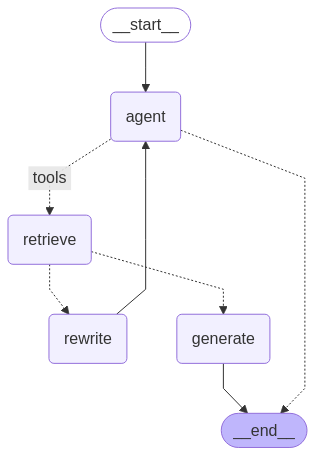
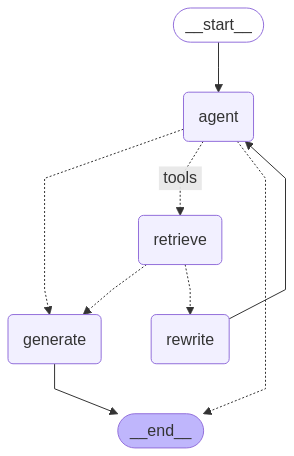
updated graph and associated methods to use retrievel tool more reliably

diff --git a/app/core/agents/agentic_graph.py b/app/core/agents/agentic_graph.py
@@ -2,29 +2,47 @@ import json
 from typing import Literal
 
 from langchain import hub
-from langchain_core.messages import HumanMessage
+from langchain_core.messages import HumanMessage, ToolMessage
 from langchain_core.output_parsers import StrOutputParser
 from langchain_core.prompts import PromptTemplate
 from langgraph.graph import END, START, StateGraph
-from langgraph.prebuilt import ToolNode, tools_condition
+from langgraph.prebuilt import tools_condition
 
 from app.clients.azure_openai_config import azure_gpt4o
 from app.core.agents.agent_state import AgentState
-from app.core.agents.agent_tools import retriever_tool, tools
+from app.core.agents.agent_tools import tools
+from app.core.rag.vector_store import retriever
 
 
-### Edges
+def debug_tools_condition(state):
+    user_query = state["messages"][0].content.lower()
+    gov_keywords = [
+        "universal credit",
+        "benefits",
+        "housing",
+        "landlord",
+        "rented",
+        "government",
+        "ai ethics",
+        "artificial intelligence",
+        "government guidance",
+        "fairness",
+        "accountability",
+        "transparency",
+    ]
+    result = tools_condition(state)
+    print(f"TOOL CONDITION OUTPUT FROM LLM: {result}")
+    if any(keyword in user_query for keyword in gov_keywords):
+        print(
+            "\U0001f50d Detected gov-related keyword and no retrieval yet — forcing retriever tool."
+        )
+        return "tools"
+    return result
+
+
 def check_document_relevance(state) -> Literal["generate", "rewrite"]:
-    """
-    Determines whether the retrieved documents are relevant to the question.
-    """
     print("---CHECK RELEVANCE---")
-
-    model = azure_gpt4o(
-        temperature=0, streaming=False
-    )  # Disable streaming for simpler invoke/parse
-
-    # Modify prompt to explicitly ask for JSON output
+    model = azure_gpt4o(temperature=0, streaming=False)
     prompt = PromptTemplate(
         template="""You are a grader assessing relevance of a retrieved document to a user question.
         Here is the retrieved document:
@@ -34,92 +52,102 @@ def check_document_relevance(state) -> Literal["generate", "rewrite"]:
         {question}
 
         If the document contains keyword(s) or semantic meaning related to the user question, grade it as relevant.
-        Give a binary score 'yes' or 'no' score to indicate whether the document is relevant to the question.
-        Respond ONLY with a valid JSON object containing a single key "binary_score" with the value "yes" or "no".
-        Example: {{"binary_score": "yes"}}
+        Respond ONLY with 'yes' or 'no'.
 
-        JSON Response:""",
+        Response:""",
         input_variables=["context", "question"],
     )
-
-    # Simpler chain for raw output
     chain = prompt | model | StrOutputParser()
 
     messages = state["messages"]
     last_message = messages[-1]
     question = messages[0].content
-    docs = (
-        last_message.content
-    )  # Assuming docs is already a string or formatted correctly here
+    docs = last_message.content
 
-    # Invoke the chain to get the raw string output
-    raw_json_output = chain.invoke({"question": question, "context": docs})
-    print(f"DEBUG: Raw output from grading model: {raw_json_output}")
+    raw_output = chain.invoke({"question": question, "context": docs})
+    print(f"DEBUG: Raw output from grading model: {raw_output}")
 
-    score = "no"  # Default score
-    try:
-        # Attempt to parse the JSON string
-        parsed_output = json.loads(raw_json_output.strip())
-        if "binary_score" in parsed_output and parsed_output["binary_score"] in [
-            "yes",
-            "no",
-        ]:
-            score = parsed_output["binary_score"]
-        else:
-            print("WARN: JSON output missing 'binary_score' or invalid value.")
-    except json.JSONDecodeError:
-        print(f"ERROR: Failed to decode JSON from model output: {raw_json_output}")
-    except Exception as e:
-        print(f"ERROR: Unexpected error parsing JSON: {e}")
+    cleaned_output = raw_output.strip().lower()
+    print(f"*********Cleaned String to parse: {cleaned_output}")
 
-    if score == "yes":
+    if "yes" in cleaned_output:
         print("---DECISION: DOCS RELEVANT---")
         return "generate"
 
-    print(f"---DECISION: DOCS NOT RELEVANT (Score: {score})---")
+    print(f"---DECISION: DOCS NOT RELEVANT (Score: {cleaned_output})---")
     return "rewrite"
 
 
-### Nodes
 def agent(state):
-    """
-    Invokes the agent model to generate a response based on the current state. Given
-    the question, it will decide to retrieve using the retriever tool, or simply end.
-
-    Args:
-        state (messages): The current state
-
-    Returns:
-        dict: The updated state with the agent response appended to messages
-    """
     print("---CALL AGENT---")
     messages = state["messages"]
+    system_msg = HumanMessage(
+        content=(
+            "You are a helpful assistant. Use tools when relevant. "
+            "You MUST use the `gov_knowledge_base` tool for any question about UK government information "
+            "regarding Universal Credit, housing, benefit payments, or AI ethics and safety. "
+            "Do NOT attempt to answer on your own for these topics — use the tool."
+        ),
+        name="system",
+    )
+
     model = azure_gpt4o(temperature=0, streaming=False)
     model = model.bind_tools(tools)
-    response = model.invoke(messages)
-    # We return a list, because this will get added to the existing list
+
+    response = model.invoke([system_msg] + messages)
+
+    tool_calls = response.additional_kwargs.get("tool_calls", [])
+
+    if tool_calls:
+        print(f"⚙ Tool calls detected: {tool_calls}")
+        tool_messages = []
+        tool_response = None
+
+        for tool_call in tool_calls:
+            tool_name = tool_call["function"]["name"]
+            tool_args = json.loads(tool_call["function"]["arguments"])
+            tool_call_id = tool_call["id"]
+
+            if tool_name == "gov_knowledge_base":
+                tool_response = retriever.invoke(tool_args["query"])
+                tool_messages.append(
+                    ToolMessage(
+                        tool_call_id=tool_call_id, content="Retrieved documents."
+                    )
+                )
+
+        return {
+            "messages": [response] + tool_messages,
+            "docs": tool_response,
+            "retrieval_attempted": True,
+            "should_generate": True,
+        }
+
     return {"messages": [response]}
 
 
+def retrieve_and_store(state):
+    print("---RETRIEVE AND STORE---")
+    query = state["messages"][-1].content
+    documents = retriever.invoke(query)
+
+    retrieval_message = HumanMessage(content="Documents retrieved.")
+    return {
+        "messages": [retrieval_message],
+        "docs": documents,
+        "retrieval_attempted": True,
+    }
+
+
 def rewrite(state):
-    """
-    Transform the query to produce a better question.
-
-    Args:
-        state (messages): The current state
-
-    Returns:
-        dict: The updated state with re-phrased question
-    """
-
     print("---TRANSFORM QUERY---")
     messages = state["messages"]
     question = messages[0].content
 
     msg = [
         HumanMessage(
-            content=f""" \n
-    Look at the input and try to reason about the underlying semantic intent / meaning. \n
+            content=f"""
+    Look at the input and try to reason about the underlying semantic intent / meaning.
     Here is the initial question:
     \n ------- \n
     {question}
@@ -128,101 +156,79 @@ def rewrite(state):
         )
     ]
 
-    # Grader
     model = azure_gpt4o(temperature=0, streaming=False)
     response = model.invoke(msg)
     return {"messages": [response]}
 
 
 def generate(state):
-    """
-    Generate answer
-
-    Args:
-        state (messages): The current state
-
-    Returns:
-         dict: The updated state with re-phrased question
-    """
     print("---GENERATE---")
-    messages = state["messages"]
-    question = messages[0].content
-    last_message = messages[-1]
+    question = state["messages"][0].content
+    docs = state.get("docs", [])
 
-    docs = last_message.content
-
-    # Prompt
-    prompt = hub.pull("rlm/rag-prompt")
-
-    # LLM
-    llm = azure_gpt4o(temperature=0, streaming=False)
-
-    # Post-processing
     def format_docs(docs):
         return "\n\n".join(doc.page_content for doc in docs)
 
-    # Chain
+    def collect_sources(docs):
+        source = set()
+        for doc in docs:
+            url = doc.metadata.get("url")
+            title = doc.metadata.get("title", "Unknown Title")
+            if url:
+                source.add(f"{title}: {url}")
+        return "\n".join(sorted(source)) if source else "No sources found."
+
+    prompt = hub.pull("rlm/rag-prompt")
+    llm = azure_gpt4o(temperature=0, streaming=False)
     rag_chain = prompt | llm | StrOutputParser()
 
-    # Run
-    response = rag_chain.invoke({"context": docs, "question": question})
-    return {"messages": [response]}
+    response = rag_chain.invoke({"context": format_docs(docs), "question": question})
+    cited_sources = collect_sources(docs)
+    full_response = f"{response}\n\nSources:\n{cited_sources}"
+    return {"messages": [full_response]}
 
 
-print("*" * 20 + "Prompt[rlm/rag-prompt]" + "*" * 20)
-prompt = hub.pull("rlm/rag-prompt").pretty_print()  # Show what the prompt looks like
+# ========== BUILD GRAPH ===========
+print("****************** Prompt[rlm/rag-prompt] ******************")
+hub.pull("rlm/rag-prompt").pretty_print()
 
-
-# Define a new graph
 workflow = StateGraph(AgentState)
+workflow.add_node("agent", agent)
+workflow.add_node("retrieve", retrieve_and_store)
+workflow.add_node("rewrite", rewrite)
+workflow.add_node("generate", generate)
 
-# Define the nodes we will cycle between
-workflow.add_node("agent", agent)  # agent
-retrieve = ToolNode([retriever_tool])
-workflow.add_node("retrieve", retrieve)  # retrieval
-workflow.add_node("rewrite", rewrite)  # Re-writing the question
-workflow.add_node(
-    "generate", generate
-)  # Generating a response after we know the documents are relevant
-# Call agent node to decide to retrieve or not
 workflow.add_edge(START, "agent")
 
-# Decide whether to retrieve
 workflow.add_conditional_edges(
     "agent",
-    # Assess agent decision
-    tools_condition,
-    {
-        # Translate the condition outputs to nodes in our graph
-        "tools": "retrieve",
-        END: END,
-    },
+    lambda state: "generate"
+    if state.get("should_generate")
+    else debug_tools_condition(state),
+    {"generate": "generate", "tools": "retrieve", END: END},
 )
 
-# Edges taken after the `action` node is called.
 workflow.add_conditional_edges(
-    "retrieve",
-    # Assess agent decision
-    check_document_relevance,
+    "retrieve", check_document_relevance, {"generate": "generate", "rewrite": "rewrite"}
 )
+
 workflow.add_edge("generate", END)
 workflow.add_edge("rewrite", "agent")
 
-# Compile
+# Compile graph
 graph = workflow.compile()
 
-# create image of nodes
+# Save mermaid diagram
 image_data = graph.get_graph().draw_mermaid_png()
-output_filename = "agentic_graph.png"
-print(f"Saving graph to {output_filename}...")
-with open(output_filename, "wb") as f:
+with open("agentic_graph.png", "wb") as f:
     f.write(image_data)
 
-# create image of nodes
+
+# # create image of nodes
 # import pprint
 # inputs = {
 #     "messages": [
-#         ("user", "What does Lilian Weng say about the types of agent memory?"),
+#         ("user", "What does the government say about AI and ethics, specifically on transparency?"),
 #     ]
 # }
 # for output in graph.stream(inputs):

diff --git a/app/core/rag/data_ingest.py b/app/core/rag/data_ingest.py
@@ -8,8 +8,22 @@ urls = [
     "https://www.gov.uk/guidance/understanding-artificial-intelligence-ethics-and-safety",
 ]
 
+titles = {
+    urls[0]: "How to Have Your Benefits Paid",
+    urls[1]: "How to Claim Universal Credit",
+    urls[2]: "Universal Credit and Rented Housing: Guide for Landlords",
+    urls[3]: "Understanding Artificial Intelligence Ethics and Safety",
+}
+
 docs = [WebBaseLoader(url).load() for url in urls]
 docs_list = [item for sublist in docs for item in sublist]
+
+# add metadata to each document
+for doc in docs_list:
+    source_url = doc.metadata.get("source", "")
+    doc.metadata["url"] = source_url
+    doc.metadata["title"] = titles.get(source_url, "GOV.UK")
+
 
 text_splitter = RecursiveCharacterTextSplitter.from_tiktoken_encoder(
     chunk_size=100,

diff --git a/app/core/agents/agent_state.py b/app/core/agents/agent_state.py
@@ -1,5 +1,5 @@
 from collections.abc import Sequence
-from typing import Annotated
+from typing import Annotated, Any
 
 from langchain_core.messages import BaseMessage
 from langgraph.graph.message import add_messages
@@ -7,6 +7,9 @@ from typing_extensions import TypedDict
 
 
 class AgentState(TypedDict):
-    # The add_messages function defines how an update should be processed
-    # Default is to replace. add_messages says "append"
+    # Conversation so far, accumulated across turns
     messages: Annotated[Sequence[BaseMessage], add_messages]
+    # Have we already done at least one retrieval?
+    retrieval_attempted: bool
+    # The raw list of Document objects from the last retrieval
+    docs: list[Any]
